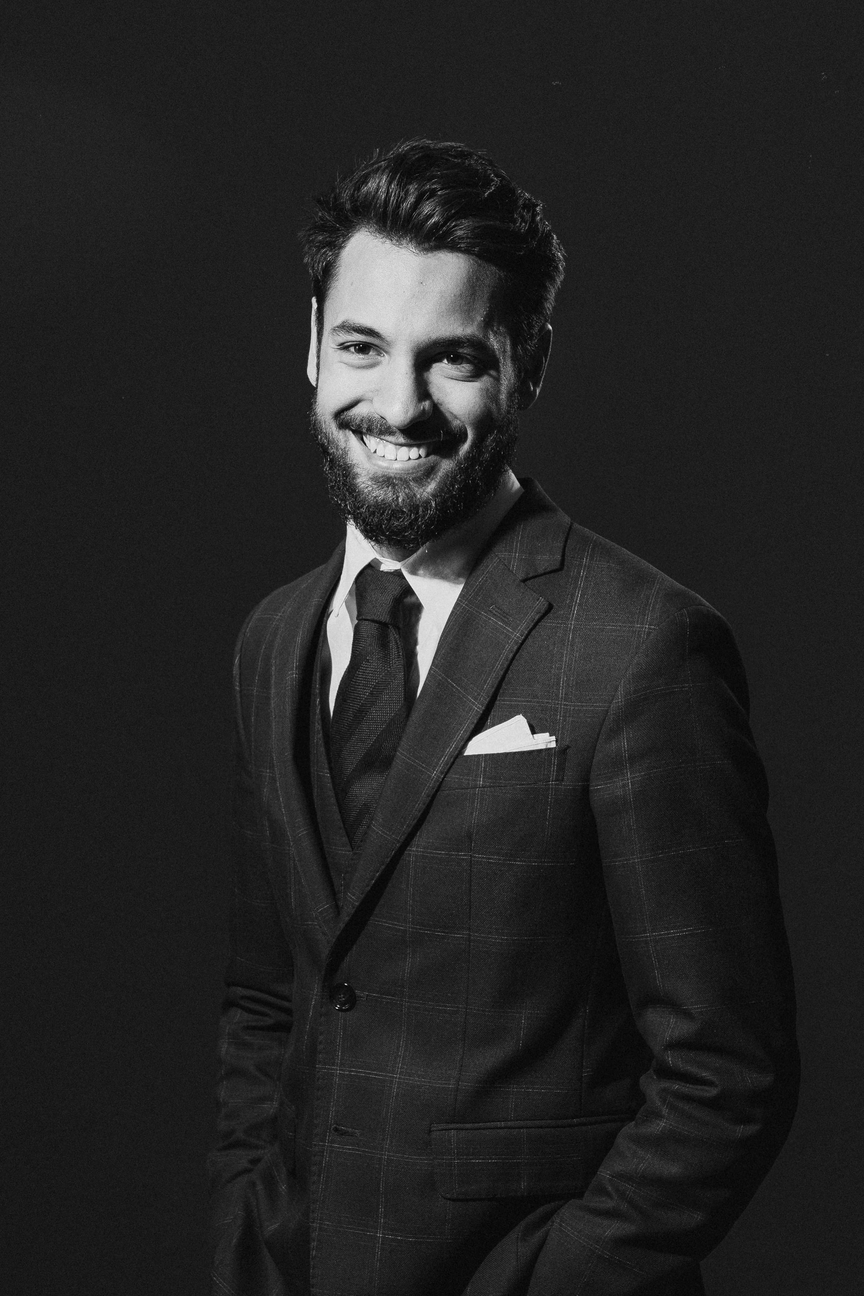
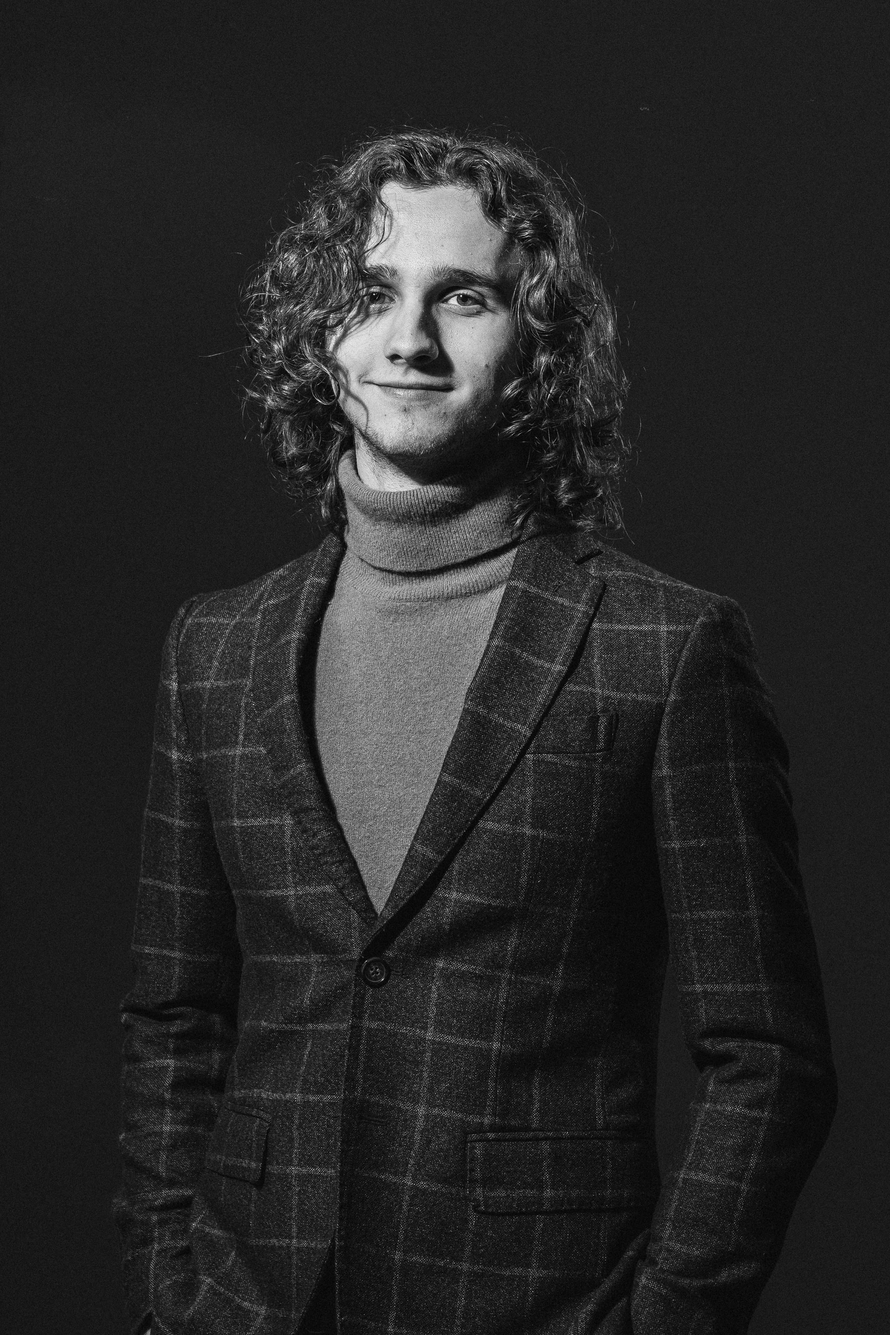
Aggiornato sezione about

diff --git a/js/aboutJS.js b/js/aboutJS.js
@@ -194,7 +194,7 @@ async function animateShowValori(index) {
             }
         case 1:
             if ($(window).width() < 1024) {
-                console.log('left');
+                // console.log('left');
                 widthLine = marginLeft;
                 marginLeftLine = -containerLeft - 60;
                 marginLeftText = -50;
@@ -413,7 +413,7 @@ async function animateHideValori(index, zoomOutLines = false) {
 }
 
 if ($(window).width() < 1024) {
-    console.log('br')
+    // console.log('br')
     $('#brTime').append("<br>")
 }
 
@@ -449,29 +449,29 @@ async function resizeTeam(animation = true) {
         newWidth = $("#team-container").width() / 2.0;
     }
 
-    let newSize1 = {width: newWidth, height: newWidth * originalSize1.height / originalSize1.width};
-    let newSize2 = {width: newWidth, height: newWidth * originalSize2.height / originalSize2.width};
+    const newSize1 = {width: newWidth, height: newWidth * originalSize1.height / originalSize1.width};
+    const newSize2 = {width: newWidth, height: newWidth * originalSize2.height / originalSize2.width};
 
     $("#team-container").css({"height": (newSize1.height + newSize2.height - 125) + "px"});
 
     $(".person-container:eq(0), .person-container:eq(2), .person-container:eq(4)").css({
-        "width": newSize1.width + "px",
-        "height": newSize1.height + "px"
-    });
-    $(".person-container:eq(1), .person-container:eq(3), .person-container:eq(5)").css({
         "width": newSize2.width + "px",
         "height": newSize2.height + "px"
     });
+    $(".person-container:eq(1), .person-container:eq(3), .person-container:eq(5)").css({
+        "width": newSize1.width + "px",
+        "height": newSize1.height + "px"
+    });
     $(".person-container:eq(1), .person-container:eq(4)").css({"left": newWidth + "px"});
     $(".person-container:eq(2), .person-container:eq(5)").css({"left": (newWidth * 2) + "px"});
-    $(".person-container:eq(3), .person-container:eq(5)").css({"top": newSize1.height + "px"});
-    $(".person-container:eq(4)").css({"top": newSize2.height + "px"});
+    $(".person-container:eq(4)").css({"top": newSize1.height + "px"});
+    $(".person-container:eq(3), .person-container:eq(5)").css({"top": newSize2.height + "px"});
 
     if(oneTime){
         $('.person-container').each(function () {
             heightTotal += $(this).height();
             $('#heightJS').css({"height": heightTotal / 3 + 'px'})
-            console.log(heightTotal)
+            // console.log(heightTotal)
             oneTime = false;
         });
 

diff --git a/about.php b/about.php
@@ -30,8 +30,8 @@
             per raggiungere i propri obiettivi senza timore degli ostacoli”
         </p>
         <p class="start-text text-light">
-            Makuda è in un processo di costante crescita che ci porta ad affrontare
-            ogni realtà in maniera positiva.<br>
+            Fondata da Simone Santacroce e Stefano D’onofrio, Makuda è in un processo di<br>
+            costante crescita che ci porta ad affrontare ogni realtà in maniera positiva.<br>
             Crescere per noi è imparare a saper offrire le giuste sfumature di colore
             per un obiettivo finale<br>
             concreto, che sia sempre di successo e di qualità.
@@ -74,19 +74,6 @@
         <div class="person-container">
             <img src="/media/img/team/1.jpg" class="person-image">
             <ul class="person-links">
-                <li><a class="person-link" href="https://www.facebook.com/sdon92">Facebook</a></li>
-                <li><a class="person-link" href="https://www.linkedin.com/in/stefano-d%E2%80%99onofrio-8553661a3/">LinkedIn</a>
-                </li>
-            </ul>
-            <div style="flex: 1"></div>
-            <div class="person-infos">
-                <h5 style="font-size: 30px;">Stefano D'onofrio</h5>
-                <h6 style="font-size: 26px;">Founder & Manager</h6>
-            </div>
-        </div>
-        <div class="person-container">
-            <img src="/media/img/team/2.jpg" class="person-image">
-            <ul class="person-links">
                 <li><a class="person-link" href="https://www.instagram.com/simone_santacroce_/">Instagram</a></li>
                 <li><a class="person-link" href="https://www.linkedin.com/in/simone-santacroce-5a42431a4/">LinkedIn</a>
                 </li>
@@ -98,18 +85,7 @@
             </div>
         </div>
         <div class="person-container">
-            <img src="/media/img/team/3.jpg" class="person-image">
-            <ul class="person-links">
-                <li><a class="person-link" href="https://www.linkedin.com/in/simone-bioli-940176165/">LinkedIn</a></li>
-            </ul>
-            <div style="flex: 1"></div>
-            <div class="person-infos">
-                <h5 style="font-size: 30px;">Simone Bioli</h5>
-                <h6 style="font-size: 26px;">Photographer & Videomaker</h6>
-            </div>
-        </div>
-        <div class="person-container">
-            <img src="/media/img/team/4.jpg" class="person-image">
+            <img src="/media/img/team/2.jpg" class="person-image">
             <ul class="person-links">
                 <li><a class="person-link" href="https://www.instagram.com/taras.film/">Instagram</a></li>
                 <li><a class="person-link" href="https://www.linkedin.com/in/taras-snegovoy-924288203/">LinkedIn</a>
@@ -122,19 +98,45 @@
             </div>
         </div>
         <div class="person-container">
-            <img src="/media/img/team/5.jpg" class="person-image">
+            <img src="/media/img/team/3.jpg" class="person-image">
             <ul class="person-links">
-                <li><a class="person-link" href="https://www.linkedin.com/in/riccardo-bitonto-1333471a9/">LinkedIn</a>
+                <li><a class="person-link" href="https://www.instagram.com/matthias_di_giorno/">Instagram</a></li>
+            </ul>
+            <div style="flex: 1"></div>
+            <div class="person-infos">
+                <h5 style="font-size: 30px;">Matthias Di Giorno</h5>
+                <h6 style="font-size: 26px;">Filmmaker & VFX Artist</h6>
+            </div>
+        </div>
+        <div class="person-container">
+            <img src="/media/img/team/4.jpg" class="person-image">
+            <ul class="person-links">
+                <li><a class="person-link" href="https://www.instagram.com/fam.famu/">Instagram</a></li>
+                <li><a class="person-link" href="https://www.linkedin.com/in/alessandro-famulari-644681111/">LinkedIn</a>
                 </li>
             </ul>
             <div style="flex: 1"></div>
             <div class="person-infos">
-                <h5 style="font-size: 30px;">Riccardo Bitonto</h5>
-                <h6 style="font-size: 26px;">Designer</h6>
+                <h5 style="font-size: 30px;">Alessandro Famulari</h5>
+                <h6 style="font-size: 26px;">Filmmaker & Fotographer</h6>
             </div>
         </div>
         <div class="person-container">
-            <img src="/media/img/team/6.jpg" class="person-image">
+            <img src="/media/img/team/5.jpg" class="person-image">
+            <ul class="person-links">
+                <li><a class="person-link" href="https://www.behance.net/gaiadetata2/moodboards">Behance</a></li>
+                <li><a class="person-link" href="https://www.instagram.com/detagaia/">Instagram</a>
+                </li>
+            </ul>
+            <div style="flex: 1"></div>
+            <div class="person-infos">
+                <h5 style="font-size: 30px;">Gaia De Tata</h5>
+                <h6 style="font-size: 26px;">Graphic designer
+</h6>
+            </div>
+        </div>
+        <div class="person-container">
+            <img src="/media/img/team/6.jpg" class="person-image" style="margin-top: -83px">
             <ul class="person-links">
                 <li><a class="person-link" href="https://www.instagram.com/armagaluf_/">Instagram</a></li>
                 <li><a class="person-link" href="https://www.linkedin.com/in/armando-aspesani-4592a0129/">LinkedIn</a>
